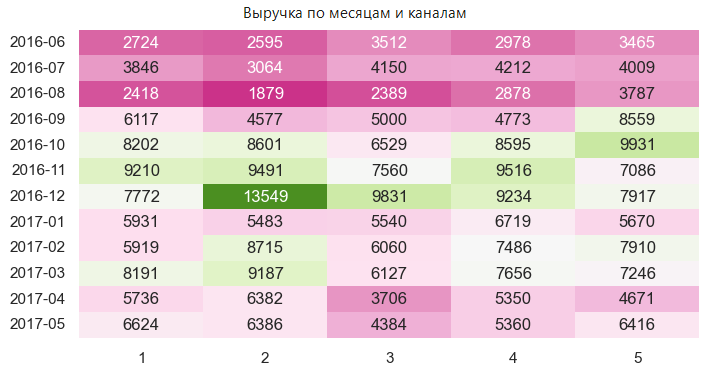
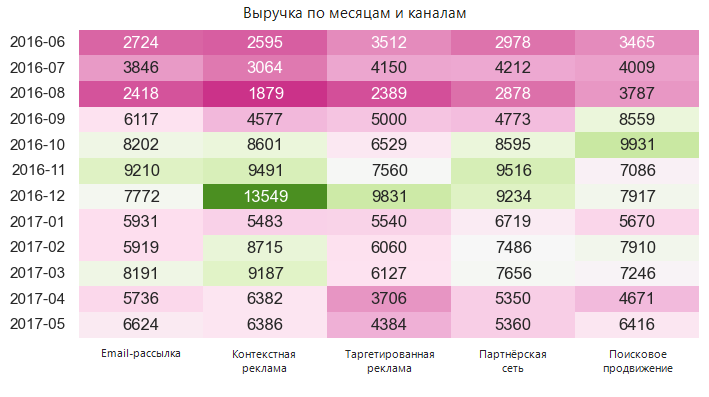
Put official channel names on the revenue heatmap axis.

diff --git a/fintech_ltv/README.md b/fintech_ltv/README.md
@@ -9,9 +9,9 @@
 ## Результат
 
 - Максимальный средний чек — когорта **сент. 2016**, минимальный — **фев. 2017**
-- Лучшие каналы по выручке: **контекст, партнёрка и SEO**; заметный рост окт–дек и спад июн–сент (сезонность)
+- Лучшие каналы по выручке: **контекстная реклама, партнёрская сеть и поисковое продвижение**; заметный рост окт–дек и спад июн–сент (сезонность)
 - Наибольший накопительный LTV — когорты **июн. и сент. 2016** — ориентир для похожего привлечения
-- Десктоп дороже и объёмнее мобильного; расходы сконцентрированы на **таргете, партнёрке и SEO**
+- Десктоп дороже и объёмнее мобильного; расходы сконцентрированы на **таргетированной рекламе, партнёрской сети и поисковом продвижении**
 
 <img src="images/avg_cheque.png" alt="Средний чек" width="700">
 
@@ -33,4 +33,4 @@
 
 ## Вывод
 
-Имеет смысл усиливать **контекст, партнёрку и SEO** и когорты с высоким LTV, закладывать сезонность в бюджет и не оценивать десктоп только по стоимости клика — при сильном LTV канал может окупаться.
+Имеет смысл усиливать **контекстную рекламу, партнёрскую сеть и поисковое продвижение** и когорты с высоким LTV, закладывать сезонность в бюджет и не оценивать десктоп только по стоимости клика — при сильном LTV канал может окупаться.
